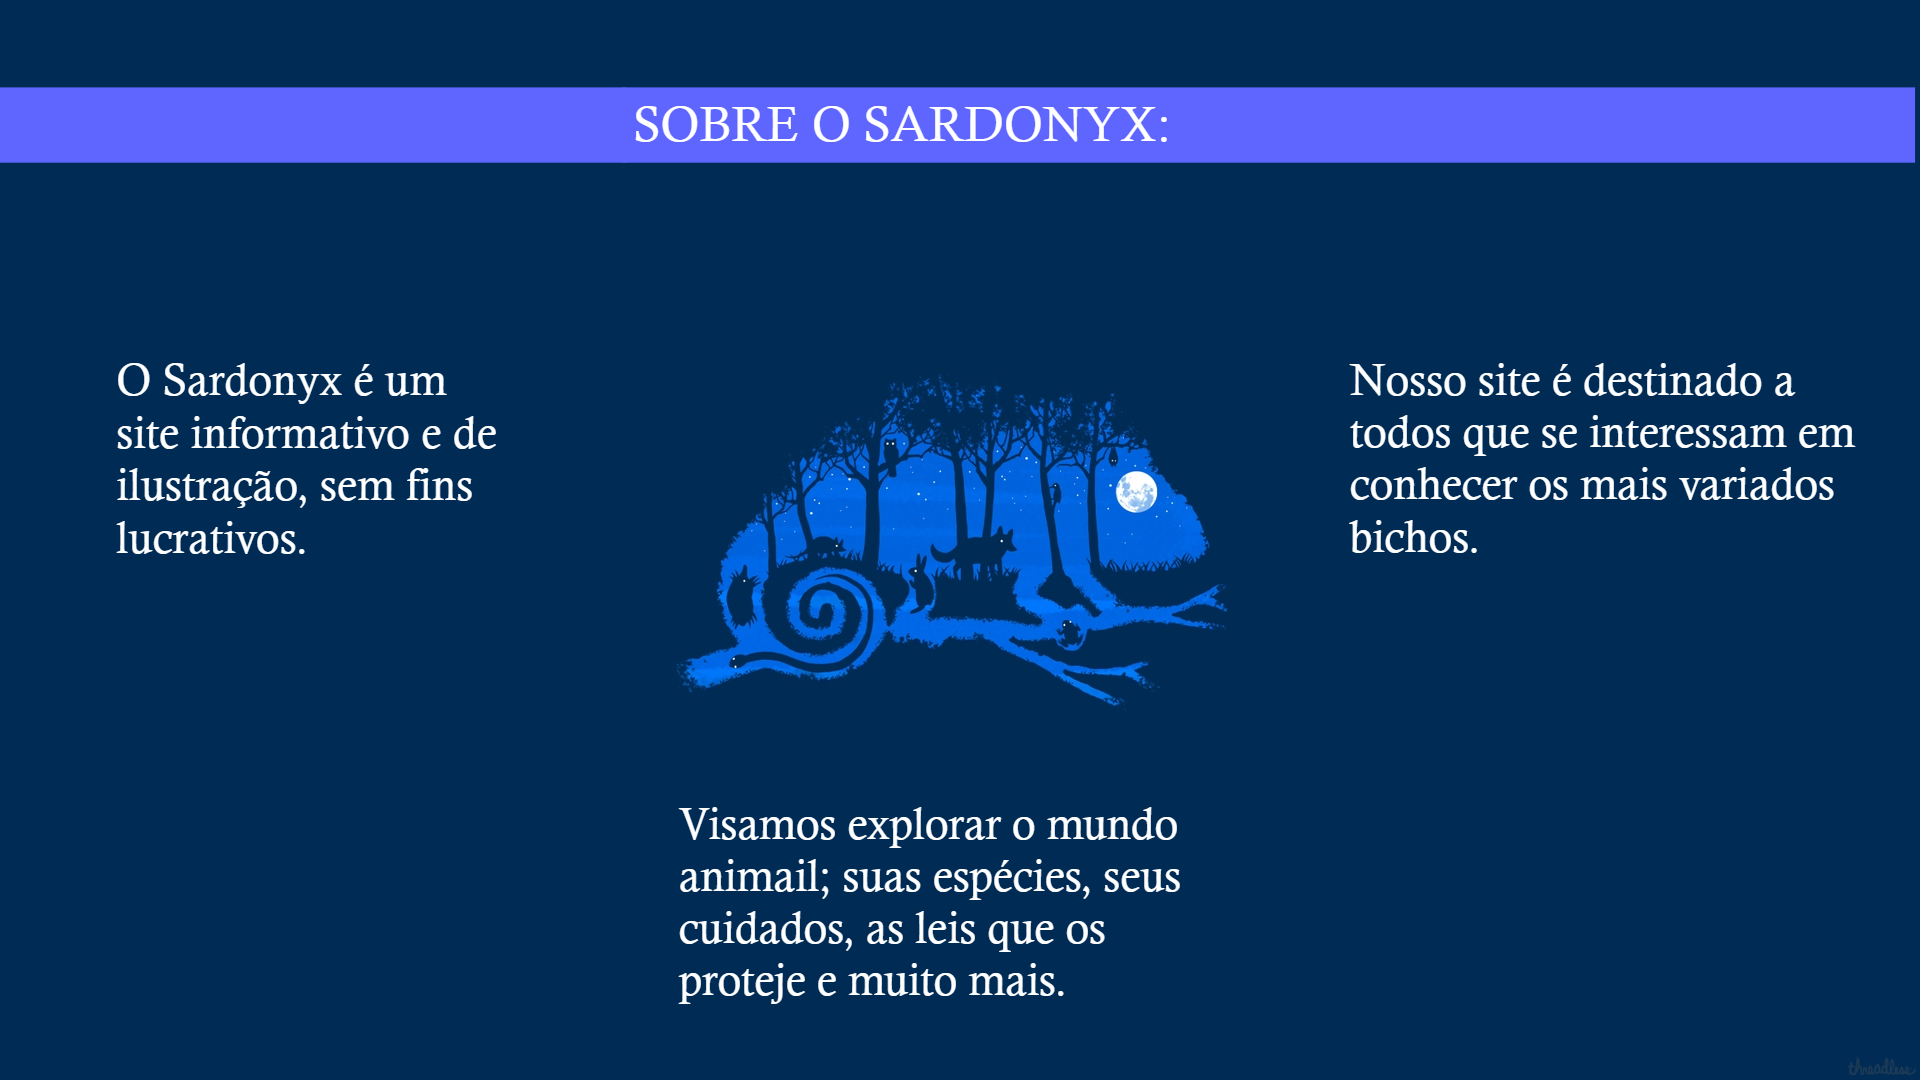
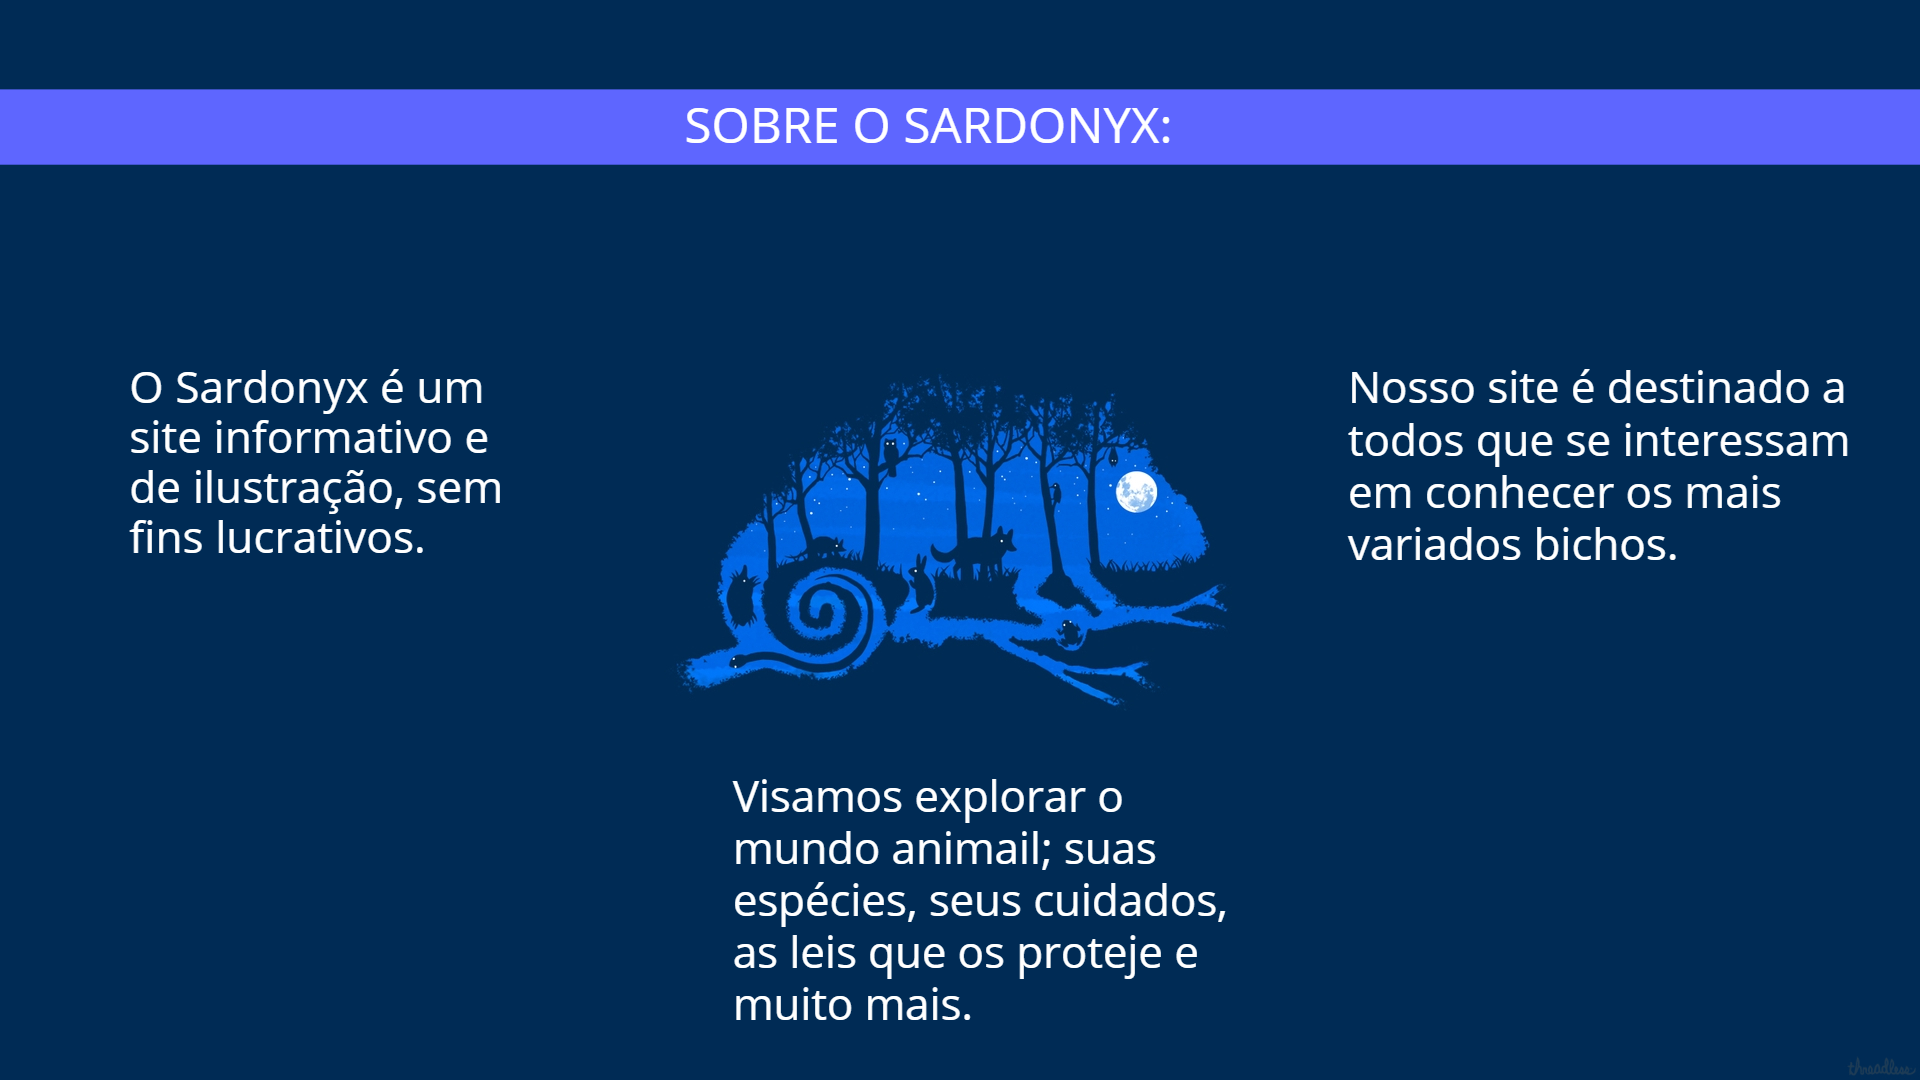
ajustes na imagem da div sard.

diff --git a/css/sobre.css b/css/sobre.css
@@ -4,8 +4,6 @@
 /* importanto fonte usada nos cards */
 @import url('https://fonts.googleapis.com/css?family=Poppins:400,500,600,700&display=swap');
 
-body {   
-}
 
 main {
   width: 100%;
@@ -13,11 +11,15 @@ main {
   font-family: 'Arial Narrow', Arial, sans-serif;
   text-align: center;
 }
+ 
+/* Estilo da div sard*/
+
 
 .imgsard{
   width: 100%;
-  height: 750px;
 }
+
+/* fim do estilo da div sard */
 
 .nos {
   width: 100%;
@@ -90,7 +92,7 @@ p.componente a:hover,.nos ul a:hover{
   width: 150px;
   display: inline-block;
   overflow: hidden;
-  margin: 10px auto;
+  margin: 5px;
   border-radius: 50%;
   transition: all 0.3s ease-in-out;
   box-shadow: 0px 1px 5px 0px rgba(0, 0, 0, 0.3);
@@ -222,4 +224,14 @@ p.componente a:hover,.nos ul a:hover{
   transform: scale(0.9);
 }
 
+@media screen and (max-width: 800px) {
+  .flex {
+      display: flex;
+      flex-wrap: wrap;
+      max-width: 400px;
+      display: block;
+      margin-left: auto;
+      margin-right: auto
+  }
+}
 

diff --git a/sobre.html b/sobre.html
@@ -59,7 +59,10 @@
 
         <!-- primeira parte que fala sobre sardonyx -->
         <div class="sard">
-          <img class="imgsard" src="img/img_sobre/fundosardofc.png">
+            <img class="imgsard" src="img/img_sobre/fundosardofc.png">
+        
+            
+
         </div>
 
         <div class="nos">
@@ -71,7 +74,7 @@
               </p>
             </div>
             <!-- aqui se inicia o código dos cards -->
-            <div class="container_cards">
+            <div class="container_cards flex">
               <div class="card">
                   <!-- Fernanda's card -->
                   <div class="wrapper">
